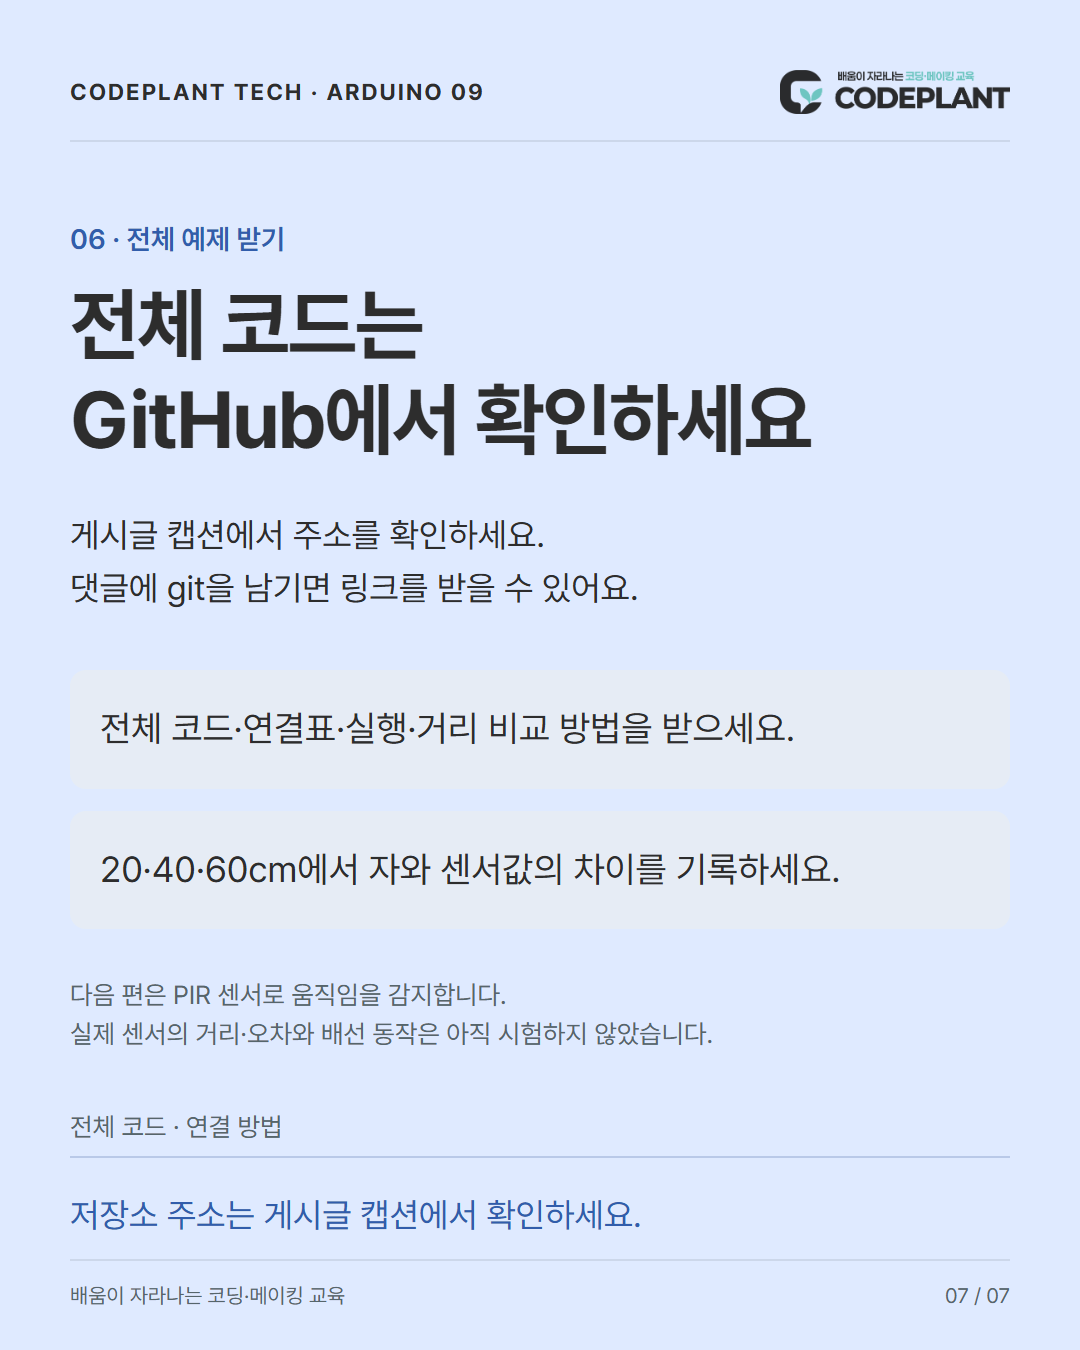
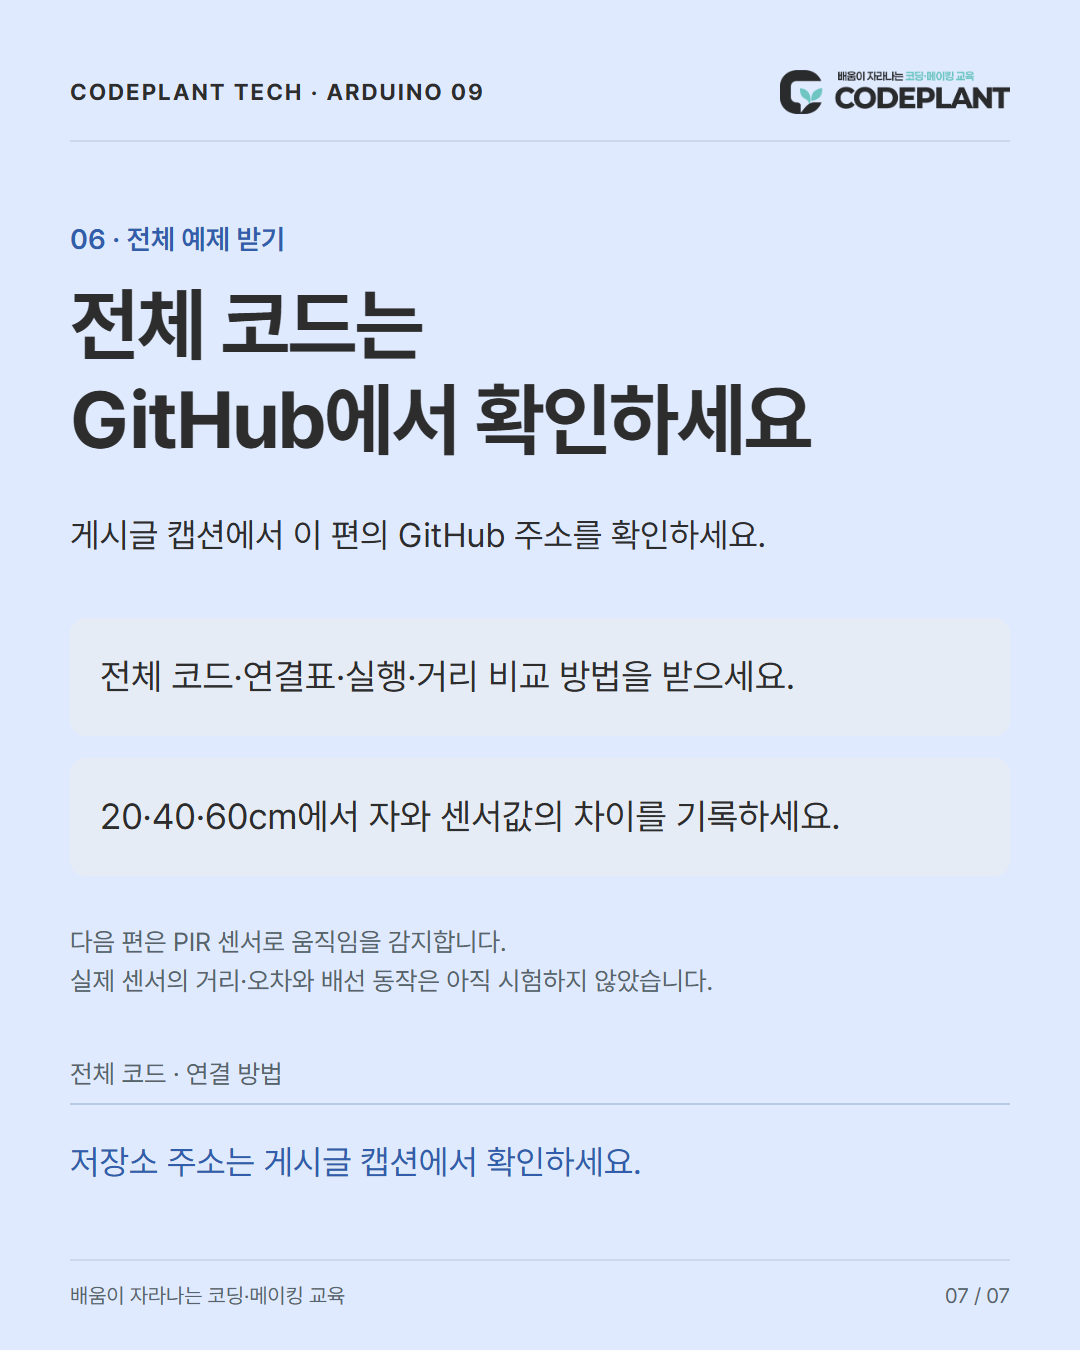
Update arduino-009-hc-sr04 educational cards and code

Changed region(s): [[0.0611, 0.6844, 0.6417, 0.9333], [0.0611, 0.3733, 0.7333, 0.56], [0.0917, 0.5911, 0.7639, 0.6533]]

diff --git a/arduino/009-hc-sr04/caption.md b/arduino/009-hc-sr04/caption.md
@@ -8,7 +8,7 @@ USB를 빼고 연결하세요. 센서 앞면에서 왼쪽부터 VCC → UNO 5V, 
 
 Arduino IDE에서 전체 코드를 업로드하고 시리얼 모니터를 9600 baud로 엽니다. 추가 라이브러리는 필요 없습니다. Trig HIGH 10μs → Echo HIGH 시간 읽기 → 시간÷58로 cm 환산 → 다음 회차 전 100ms 대기 순서입니다.
 
-distance_cm=숫자를 벽이나 큰 평평한 판까지 자로 잰 거리와 비교하세요. NO_ECHO는 제한 시간 안에 펄스를 읽지 못한 상태이며 0cm가 아닙니다. OUT_OF_RANGE는 계산 결과가 2~400cm 밖이라는 안내입니다. 실제 거리·오차와 하드웨어 동작은 미시험입니다.
+distance_cm=숫자를 벽이나 큰 평평한 판까지 자로 잰 거리와 비교하세요. NO_ECHO는 제한 시간 안에 펄스를 읽지 못한 상태이며 0cm가 아닙니다. OUT_OF_RANGE는 계산 결과가 2~400cm 밖이라는 안내입니다.
 
 전체 코드와 연결 방법: https://github.com/CodeplantEDU/codeplant-tech/tree/main/arduino/009-hc-sr04
 유튜브: https://www.youtube.com/@codeplant2024
